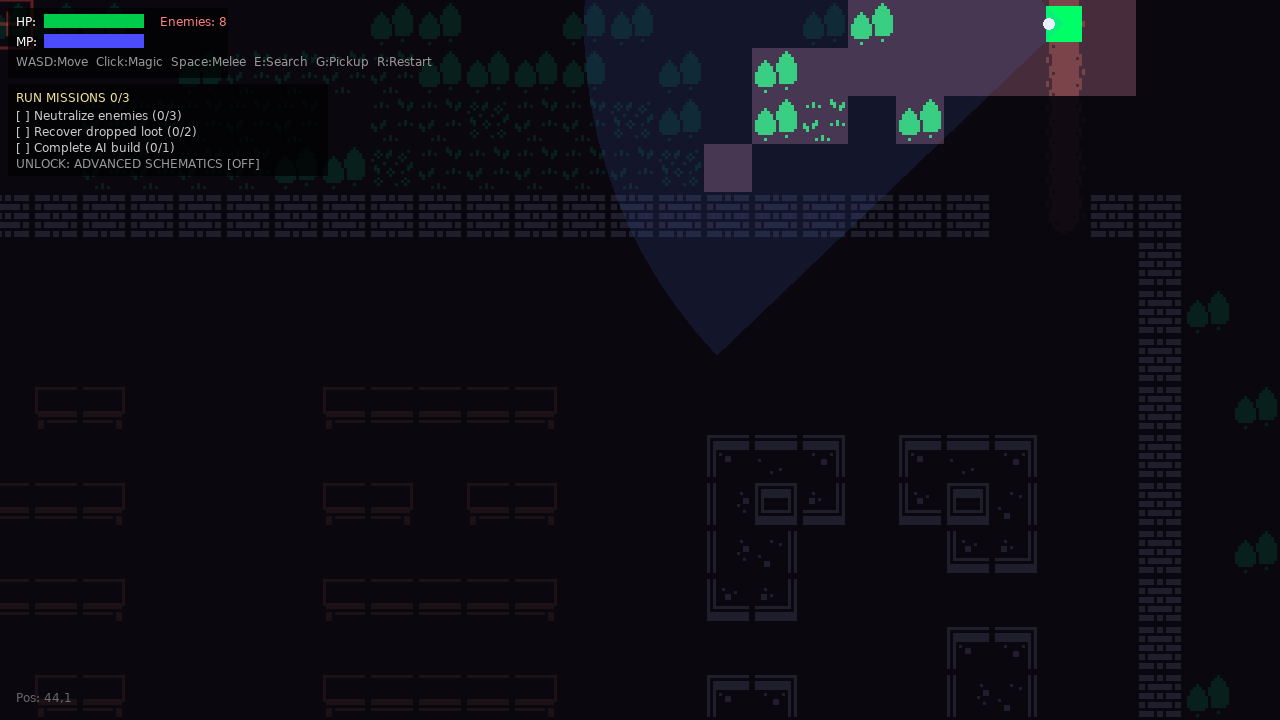
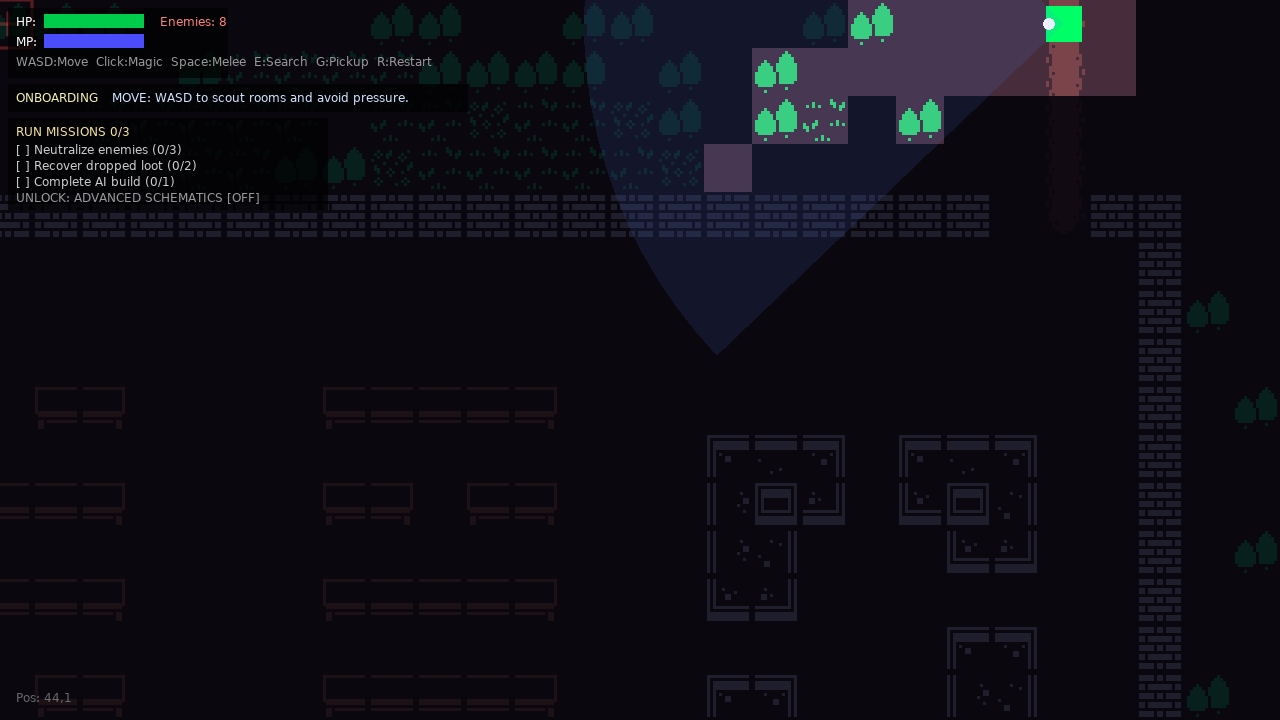
feat(ux): add first-5-minute onboarding hint flow

Changed region(s): [[0.0, 0.1222, 0.3125, 0.3056]]

diff --git a/logs/teams/ux.md b/logs/teams/ux.md
@@ -131,3 +131,21 @@
   - Added regression coverage to pin lock-reason visibility for USE/DISASM/SPLIT disabled states.
 - Follow-up:
   - Next M4 priority: compact onboarding hint flow for first 5 minutes.
+
+## 2026-03-19 11:14:50 KST
+- Task: M4 compact onboarding hint flow for first 5 minutes.
+- Commit: HEAD (this run)
+- Files: `main.lua`, `src/hud.lua`, `src/onboarding_hints.lua`, `scripts/regression_onboarding_hints.lua`, `screenshots/screenshot-map04.png`, `screenshots/screenshot-inventory-dos.png`, `ACTION_ITEMS.md`, `TASKS.md`
+- Verification:
+  - `luac -p main.lua src/hud.lua src/onboarding_hints.lua scripts/regression_onboarding_hints.lua` ✅
+  - `lua scripts/regression_onboarding_hints.lua` ✅
+  - `lua scripts/regression_action_menu_lock_reasons.lua` ✅
+  - `lua scripts/regression_builder_srl_affordance.lua` ✅
+  - `lua scripts/regression_build_preview_confirm.lua` ✅
+  - `bash scripts/capture_screenshots.sh` ✅
+- Decisions:
+  - Added a compact HUD onboarding strip that stays active only during the first 5 minutes and avoids mission-panel overlap.
+  - Hint flow now advances by first interactions (move/search/pickup/inventory/build) and then rotates compact loop tips by elapsed time.
+  - Hooked onboarding completion events from real gameplay interactions (lootbox search open, pickup success, inventory open, build completion).
+- Follow-up:
+  - Next M4 priority: keyboard-only usability pass checklist.

diff --git a/logs/teams/qa.md b/logs/teams/qa.md
@@ -337,3 +337,21 @@
   - No portal validator run required (map/portal files unchanged).
 - Follow-up:
   - Add onboarding hint-flow regression once M4 onboarding implementation lands.
+
+## 2026-03-19 11:14:50 KST
+- Task: QA verification for M4 compact onboarding hint flow.
+- Commit: HEAD (this run)
+- Files checked: `main.lua`, `src/hud.lua`, `src/onboarding_hints.lua`, `scripts/regression_onboarding_hints.lua`, `screenshots/screenshot-map04.png`, `screenshots/screenshot-inventory-dos.png`
+- Verification:
+  - `luac -p main.lua src/hud.lua src/onboarding_hints.lua scripts/regression_onboarding_hints.lua` ✅
+  - `lua scripts/regression_onboarding_hints.lua` ✅
+  - `lua scripts/regression_action_menu_lock_reasons.lua` ✅
+  - `lua scripts/regression_builder_srl_affordance.lua` ✅
+  - `lua scripts/regression_build_preview_confirm.lua` ✅
+  - `bash scripts/capture_screenshots.sh` ✅
+- Decisions:
+  - Added deterministic regression coverage for onboarding hint progression order and 5-minute expiry.
+  - Screenshot refresh confirmed due visible HUD strip changes in map/inventory captures.
+  - No portal validator run required (map/portal files unchanged).
+- Follow-up:
+  - Add checklist artifact when M4 keyboard-only usability pass is implemented.

diff --git a/logs/teams/_summary.md b/logs/teams/_summary.md
@@ -52,3 +52,4 @@ Compact decision memory for AI context efficiency.
 - Progress/report protocol: commit + verification + next task on each run.
 - DOS inventory terminology is now normalized around canonical labels (`Action Menu`, `Disasm`, `Drop`, `Build`), and build result status explicitly lists consumed materials (`USED: ...`).
 - Disabled Action Menu entries now show inline lock reasons (`[LOCK: ...]`) for USE/EQUIP/DISASM/SPLIT constraints, with regression coverage in `scripts/regression_action_menu_lock_reasons.lua`.
+- Added compact first-5-minute onboarding hint strip on HUD, progressing by early interactions (move/search/pickup/inventory/build) and expiring at 300s; covered by `scripts/regression_onboarding_hints.lua`.

diff --git a/TASKS.md b/TASKS.md
@@ -86,3 +86,7 @@ See project-level plans:
 - [x] Add always-visible lock reason for all disabled actions
   - [x] Surface per-action lock reason text directly in Action Menu rows
   - [x] Add regression coverage for disabled action lock-reason labels
+- [x] Add compact onboarding hint flow for first 5 minutes
+  - [x] Show concise contextual hint strip without obscuring HUD
+  - [x] Rotate/advance hints based on elapsed run time and first interactions
+  - [x] Add regression coverage for hint window expiry and progression

diff --git a/ACTION_ITEMS.md b/ACTION_ITEMS.md
@@ -41,7 +41,7 @@ Tracking rule:
 ## M4 - UX/Accessibility
 - [x] Finalize DOS terminology consistency (Menu/Action/Drop/Disasm/Build)
 - [x] Add always-visible lock reason for all disabled actions
-- [ ] Add compact onboarding hint flow for first 5 minutes
+- [x] Add compact onboarding hint flow for first 5 minutes
 - [ ] Add keyboard-only usability pass checklist
 
 ## M5 - RC/Launch
